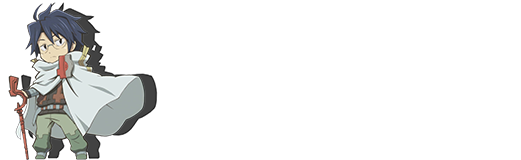
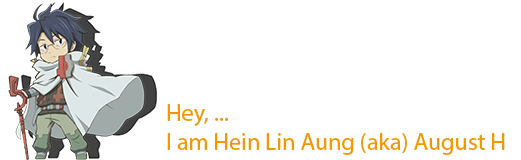
Updated : profile image and fixed UI

Changed region(s): [[0.3071, 0.8438, 0.9827, 0.9688], [0.3071, 0.6562, 0.4299, 0.7812]]

diff --git a/source/ui.js b/source/ui.js
@@ -31,6 +31,10 @@ const items = [
 		url: 'https://github.com/heinlinaung'
 	},
 	{
+		label: 'Blog',
+		url: 'https://heinlinaung.github.com/blog'
+	},
+	{
 		label: 'Contact',
 		url: 'https://heinlinaung.github.com/contact'
 	},
@@ -46,8 +50,7 @@ module.exports = () => (
 	<div>
 		<br/>
 		<div>
-			<Text>I make things happen.</Text><br/>
-			<Text>[Keys -J , K , Enter]</Text>
+			<Text>I make things happen.</Text>
 		</div>
 		<br/>
 		<SelectInput items={items} onSelect={handleSelect}/>
